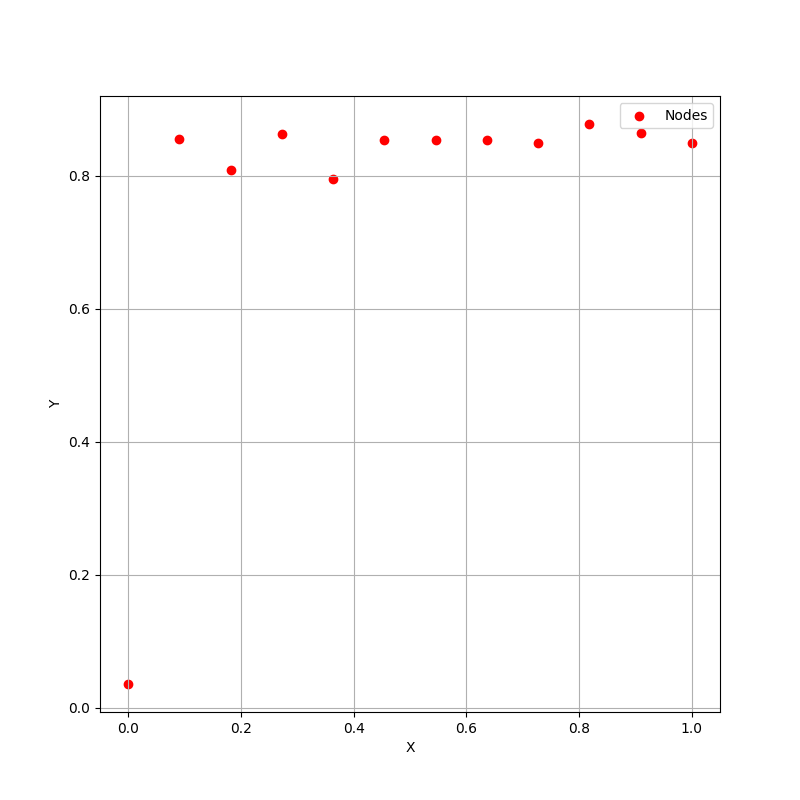
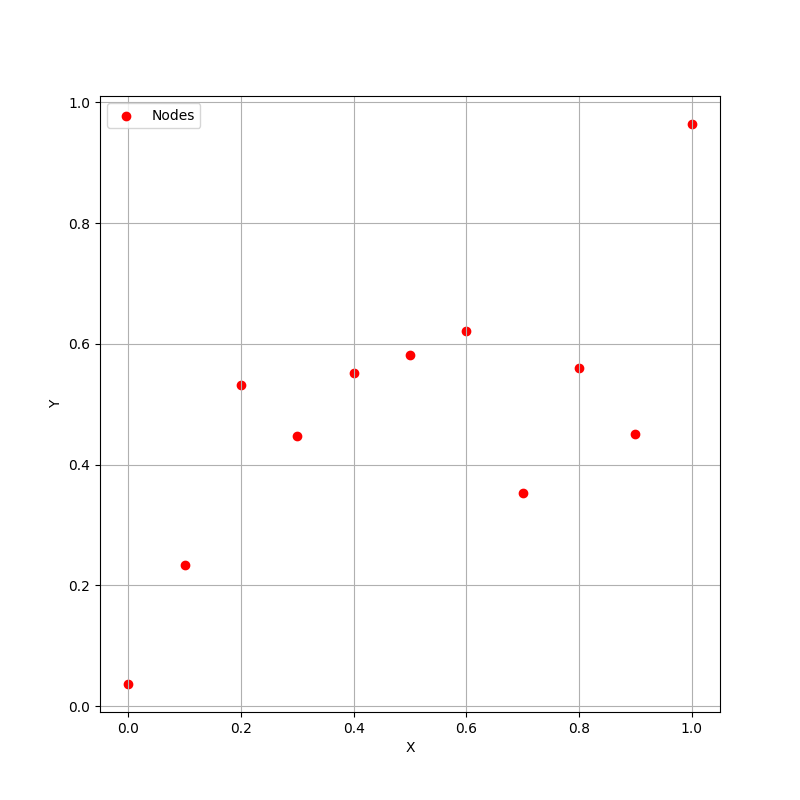
batman2

diff --git a/checker/solutions/sol_k.c b/checker/solutions/sol_k.c
@@ -45,7 +45,6 @@ char *read_c_file(const char *filename) {
 
 typedef struct Buff {
   char *dat;
-  char *name;
   ulong len;
 } Buff;
 
@@ -62,12 +61,11 @@ void dbAppend(BuffDB *db, Buff *buff) {
     db->dists[i] = malloc(sizeof(float) * (db->num + 1));
   }
 }
-Buff *makeBuff(char *input, char *name) {
+Buff *makeBuff(char *input) {
   Buff *buff = malloc(sizeof(Buff));
   buff->len = strlen(input) + 1;
   buff->dat = (char *)malloc(buff->len);
   strcpy(buff->dat, input);
-  buff->name = strdup(name);
   return buff;
 }
 
@@ -78,7 +76,6 @@ Buff *makeZBuff(Buff *inputBuff) {
   buff->dat = (char *)malloc(buff->len);
   compress((Bytef *)buff->dat, &buff->len, (const Bytef *)inputBuff->dat,
            inputBuff->len);
-  buff->name = inputBuff->name;
   return buff;
 }
 
@@ -86,7 +83,6 @@ Buff *catBuffs(Buff *buff1, Buff *buff2) {
   Buff *result = malloc(sizeof(Buff));
   result->len = buff1->len + buff2->len - 1;
   result->dat = malloc(result->len);
-  result->name = "";
 
   strcpy(result->dat, buff1->dat);
   strcat(result->dat, buff2->dat);
@@ -121,7 +117,6 @@ float normCompDist(Buff *x, Buff *y) {
 }
 
 BuffDB *makeDB(uint num, Buff **buffs) {
-
   BuffDB *db = malloc(sizeof(BuffDB));
   db->num = num;
   db->buffs = buffs;
@@ -145,23 +140,12 @@ BuffDB *makeDB(uint num, Buff **buffs) {
 
 void writeDB(FILE *fd, BuffDB *db) {
   for (int i = 0; i < db->num; i++) {
-    fprintf(fd, "%s,", db->buffs[i]->name);
-  }
-  fprintf(fd, "%s\n", db->buffs[db->num - 1]->name);
-
-  for (int i = 0; i < db->num; i++) {
     for (int j = 0; j < db->num - 1; j++) {
       fprintf(fd, "%f,", db->dists[i][j]);
     }
     fprintf(fd, "%f\n", db->dists[i][db->num - 1]);
   }
 }
-int compare(const void *a, const void *b) {
-  const Buff *buff_a = *(const Buff **)a;
-  const Buff *buff_b = *(const Buff **)b;
-  return strcmp(buff_a->name, buff_b->name);
-}
-
 Buff **crawl_dir(char *dir_path, int *idx) {
   DIR *dir;
   struct dirent *ent;
@@ -171,8 +155,9 @@ Buff **crawl_dir(char *dir_path, int *idx) {
     exit(EXIT_FAILURE);
   }
 
-  int cap = 5;
-  Buff **list = malloc(sizeof(Buff *) * cap);
+  int cap = 10;
+  Buff **list = malloc(sizeof(Buff *) * 10);
+
   while ((ent = readdir(dir)) != NULL) {
     if (*idx >= cap) {
       cap = cap * 2;
@@ -181,19 +166,14 @@ Buff **crawl_dir(char *dir_path, int *idx) {
 
     if (ent->d_type == DT_REG) {
       char file_path[256];
-      snprintf(file_path, sizeof(file_path), "%s/%s", dir_path, ent->d_name);
+      snprintf(file_path, sizeof(file_path), "%s%s", dir_path, ent->d_name);
       if (strstr(ent->d_name, ".c") != NULL) {
-
-        list[*idx] = makeBuff(read_c_file(file_path), ent->d_name);
+        list[*idx] = makeBuff(read_c_file(file_path));
         (*idx)++;
       }
     }
   }
   closedir(dir);
-
-  // Sort the list by file name
-  qsort(list, *idx, sizeof(Buff *), compare);
-
   return list;
 }
 

diff --git a/checker/scripts/plot.py b/checker/scripts/plot.py
@@ -3,11 +3,11 @@ import matplotlib.pyplot as plt
 
 # Read distances from the CSV file
 distances = np.genfromtxt('./distances.csv',
-                          delimiter=',')
-
+                          delimiter=',', skip_header=1)
+size = distances.shape[1]
 
 plt.figure(figsize=(8, 8))
-plt.scatter(np.linspace(0, 1, 12),
+plt.scatter(np.linspace(0, 1, size),
             distances[0], label='Nodes', color='red')
 
 
